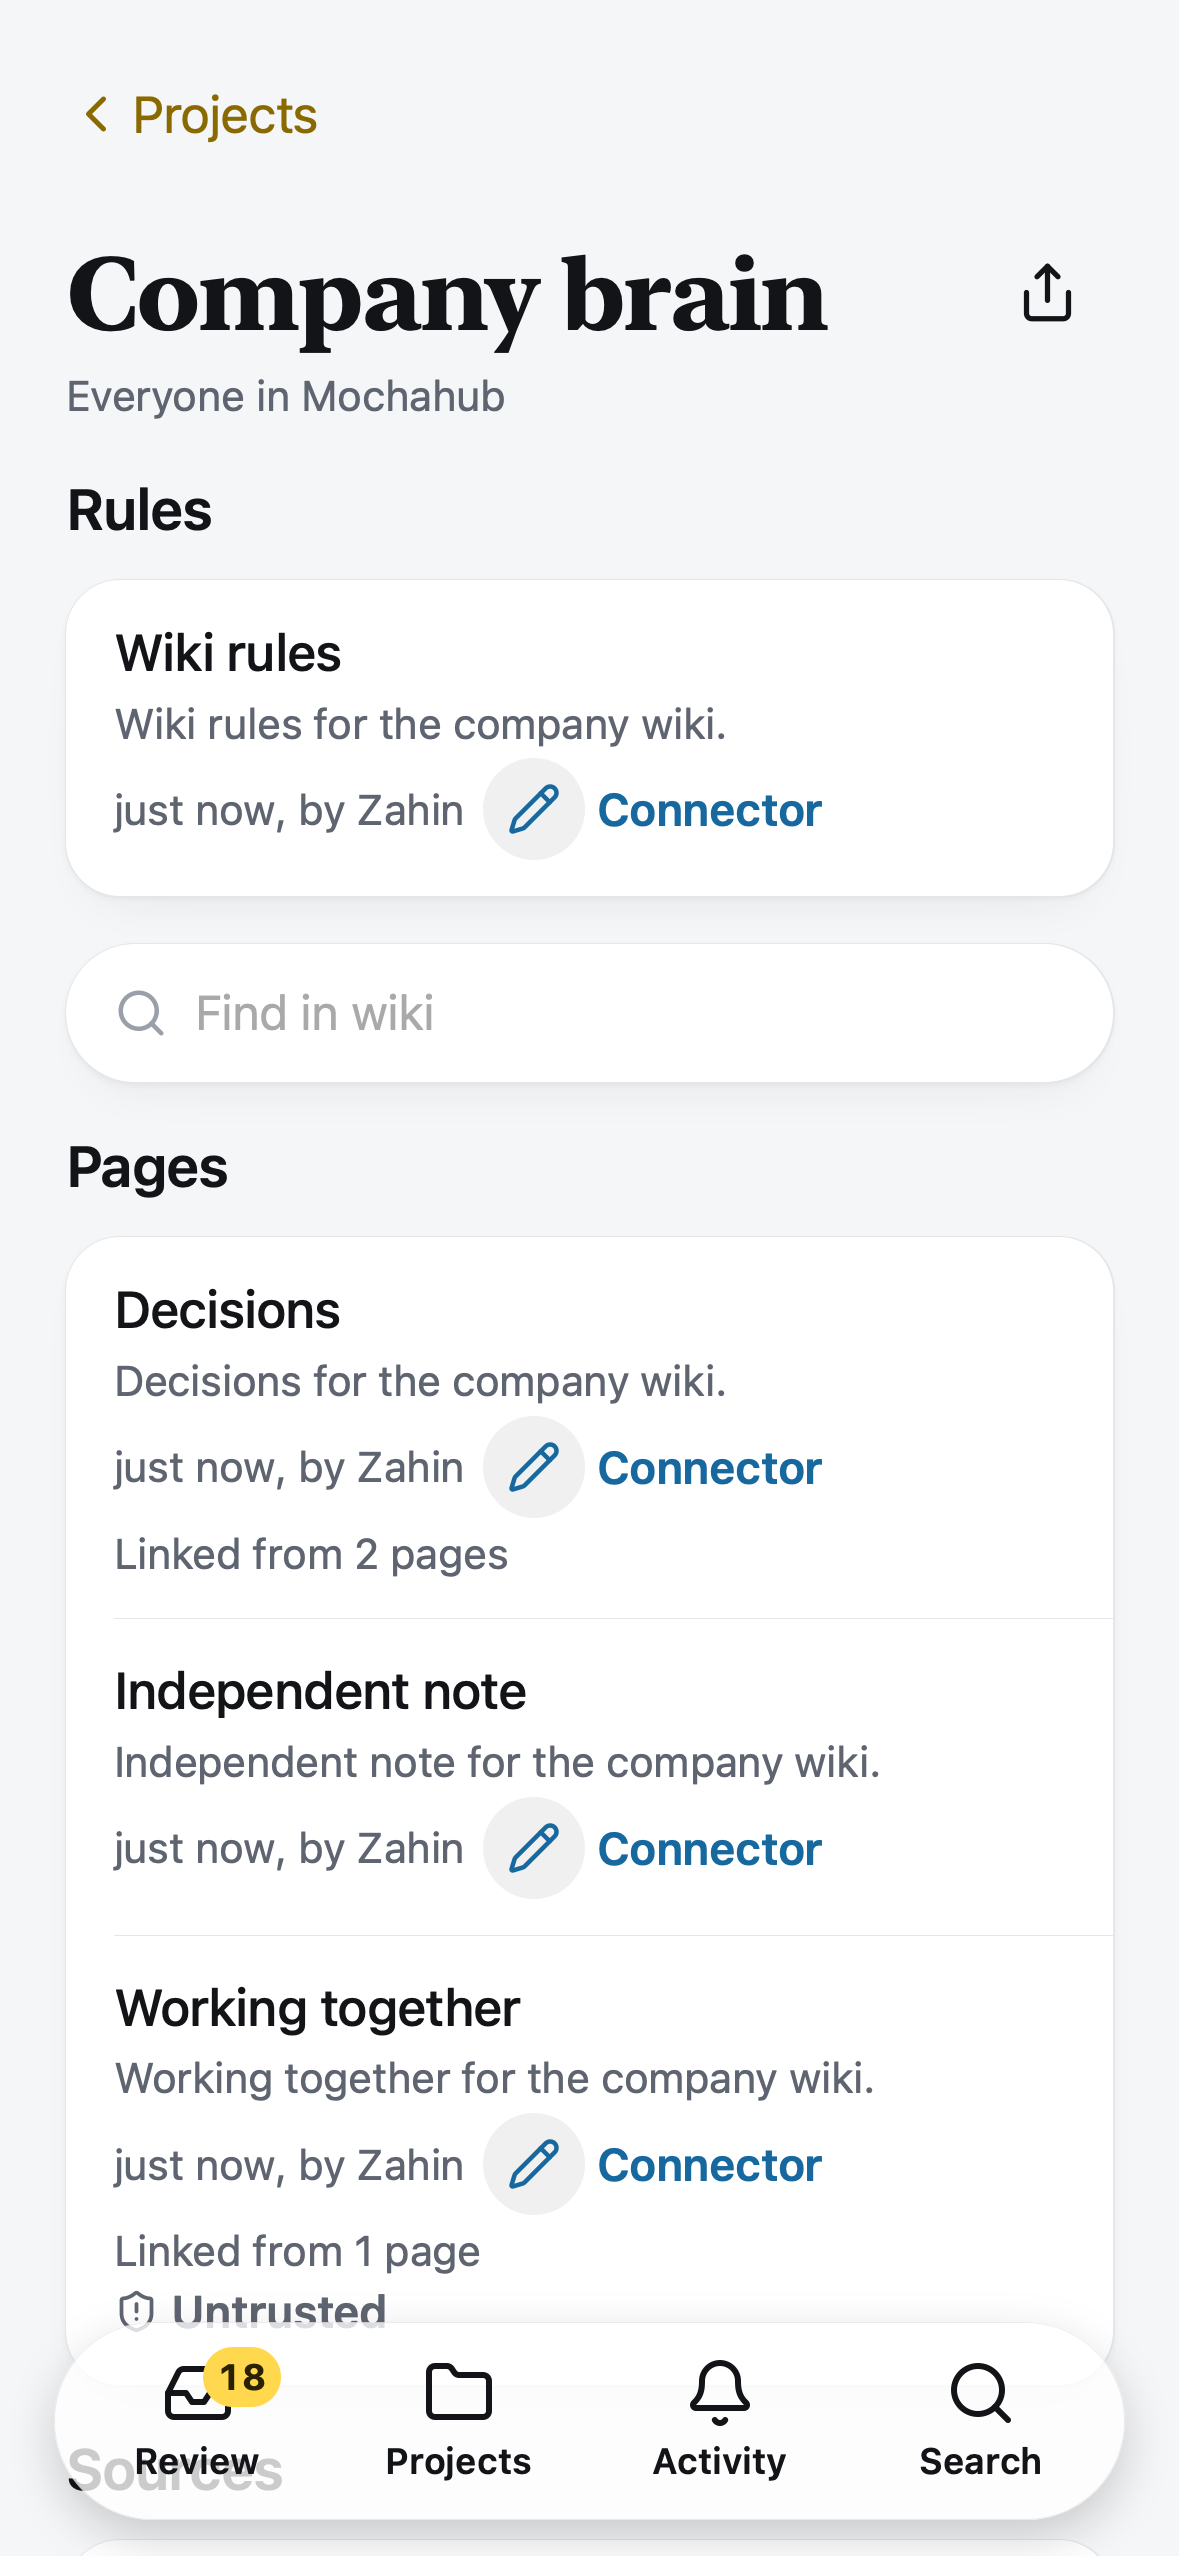
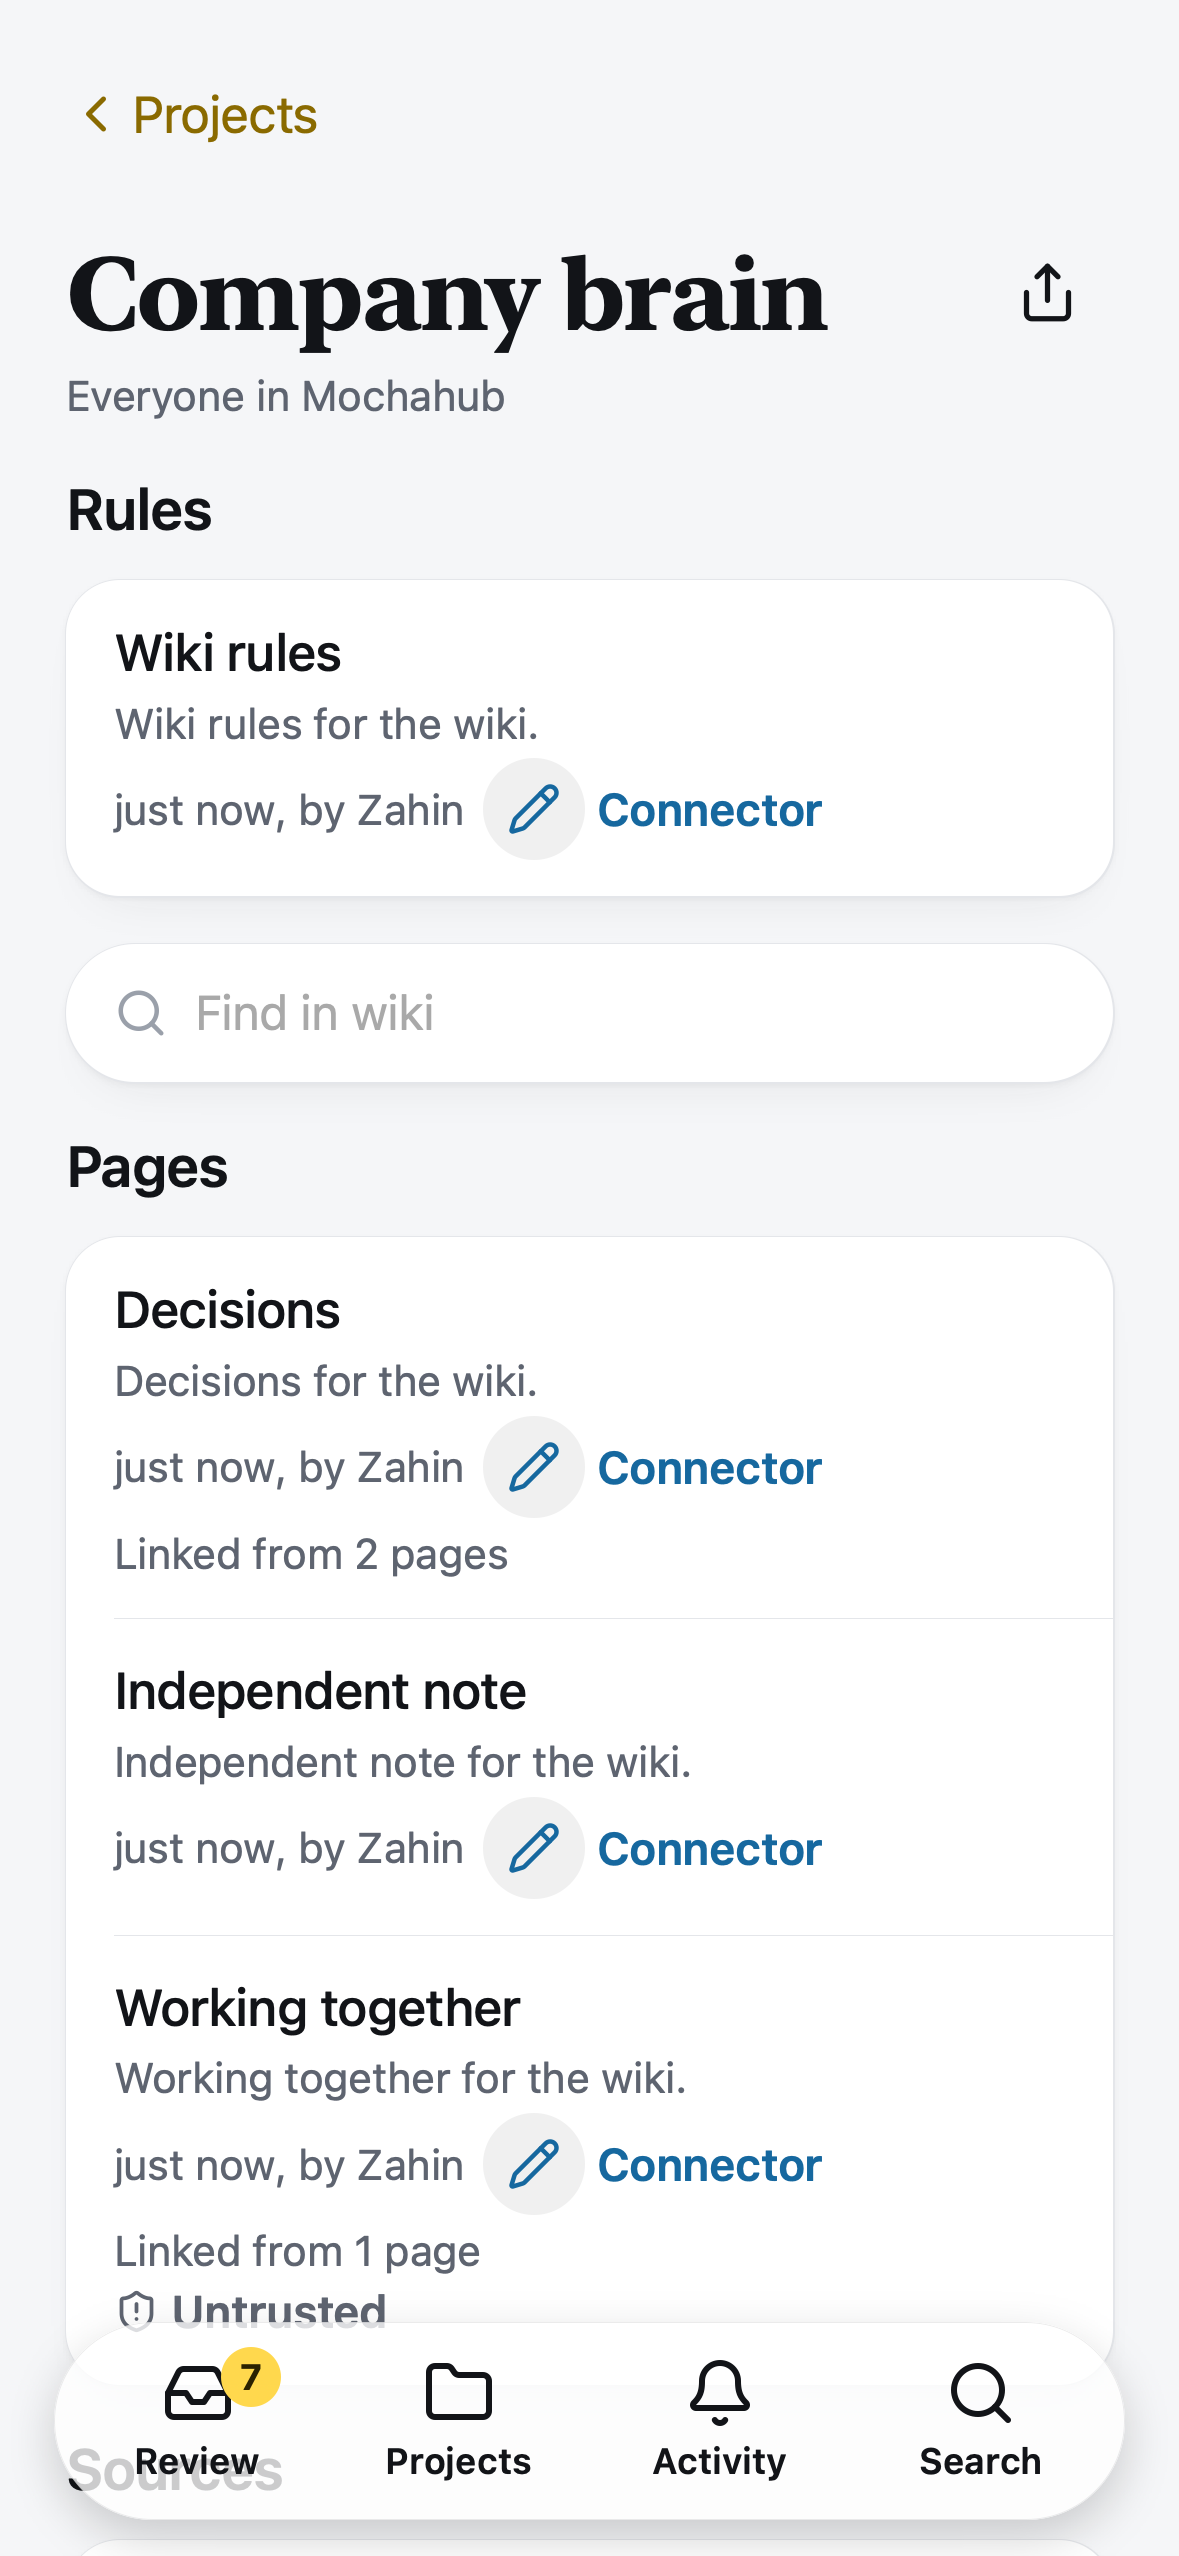
feat(cli,viewer): show wiki audience; create with --only-me or --team

diff --git a/apps/viewer/e2e/wiki.e2e.ts b/apps/viewer/e2e/wiki.e2e.ts
@@ -1,18 +1,18 @@
 import { expect, test } from "@playwright/test";
 import { auth, overflowsSideways, shot, watchErrors } from "./helpers.ts";
 
-test("wiki home, direct reading, sources, backlinks and personal labels", async ({ page, request }, info) => {
+test("wiki home, direct reading, sources, backlinks and audience labels", async ({ page, request }, info) => {
   const wiki = `brain-${info.project.name}-${info.repeatEachIndex}`;
-  const personal = `personal-${info.project.name}-${info.repeatEachIndex}`;
+  const onlyMe = `only-me-${info.project.name}-${info.repeatEachIndex}`;
   const errors = watchErrors(page);
   await page.emulateMedia({ colorScheme: "light" });
   for (const [slug, name, privateWiki] of [
     [wiki, "Company brain", false],
-    [personal, "My notebook", true],
+    [onlyMe, "My notebook", true],
   ] as const) {
     const response = await request.post("/api/wikis", {
       headers: auth(),
-      data: { slug, name, personal: privateWiki },
+      data: { slug, name, onlyMe: privateWiki },
     });
     expect(response.ok()).toBe(true);
   }
@@ -29,7 +29,7 @@ test("wiki home, direct reading, sources, backlinks and personal labels", async 
             project: wiki,
             slug,
             title,
-            summary: `${title} for the company wiki.`,
+            summary: `${title} for the wiki.`,
             markdown,
             ...meta,
           },
@@ -108,6 +108,33 @@ test("wiki home, direct reading, sources, backlinks and personal labels", async 
   expect(await overflowsSideways(page)).toBe(false);
   await shot(page, "16-3-wiki-footer");
   await page.goto("/projects");
-  await expect(page.locator(`a.li[href="/${personal}"]`)).toContainText("Personal wiki");
+  await expect(page.locator(`a.li[href="/${onlyMe}"]`)).toContainText("Only you");
   expect(errors).toEqual([]);
+});
+
+test("long unbroken audience labels wrap on wiki home and project rows at 375px", async ({
+  page,
+  request,
+}, info) => {
+  const slug = `wrap-${info.project.name}`;
+  await request.post("/api/wikis", { headers: auth(), data: { slug, name: "Wrapping" } });
+  const label = "Audience".repeat(50);
+  await page.route("**/api/wikis/*", async (route) => {
+    const response = await route.fetch();
+    const body = await response.json();
+    body.project.audience.label = label;
+    await route.fulfill({ response, json: body });
+  });
+  await page.route("**/api/projects*", async (route) => {
+    const response = await route.fetch();
+    const body = await response.json();
+    for (const project of body) if (project.slug === slug) project.audience.label = label;
+    await route.fulfill({ response, json: body });
+  });
+  await page.setViewportSize({ width: 375, height: 812 });
+  for (const path of [`/${slug}`, "/projects"]) {
+    await page.goto(path);
+    await expect(page.getByText(label, { exact: path !== "/projects" })).toBeVisible();
+    expect(await overflowsSideways(page)).toBe(false);
+  }
 });

diff --git a/packages/cli/src/commands/wiki.ts b/packages/cli/src/commands/wiki.ts
@@ -6,9 +6,9 @@ import { namedArtifact, resolveArtifact } from "../target.ts";
 
 export function wikiSummary(space: WikiSpace): string[] {
   const page = (p: WikiSpace["pages"][number]) =>
-    `  ${p.slug}  ${p.title}${p.untrusted ? " [untrusted]" : ""}${p.summary ? `: ${p.summary}` : ""}`;
+    `  ${p.slug}  ${p.title}${p.untrusted ? " [untrusted]" : ""}${p.summary ? `: ${p.summary}` : ""}${p.origin ? ` (${p.origin})` : ""}`;
   return [
-    `${space.project.name}${space.project.personal ? " (personal)" : ""}`,
+    `${space.project.name} (${space.project.audience.label})`,
     "Rules",
     ...(space.rules ? [page(space.rules)] : ["  No rules page yet."]),
     "Pages",
@@ -42,16 +42,32 @@ export async function wikiCommand(
     rest,
     flags,
     usage,
-  }: Input<"sub" | "target", { name?: string; personal?: boolean; server?: string }>,
+  }: Input<
+    "sub" | "target",
+    { name?: string; personal?: boolean; "only-me"?: boolean; team?: string; server?: string }
+  >,
   out: Output,
 ) {
   if (!target || rest.length !== 2 || !["create", "show", "links"].includes(sub ?? "")) throw usage();
-  if (sub !== "create" && (flags.name !== undefined || flags.personal !== undefined)) throw usage();
+  if (
+    sub !== "create" &&
+    (flags.name !== undefined ||
+      flags.personal !== undefined ||
+      flags["only-me"] !== undefined ||
+      flags.team !== undefined)
+  )
+    throw usage();
   if (sub === "links") namedArtifact(target);
   else if (!Slug.safeParse(target).success) throw usage();
   if (
     sub === "create" &&
-    !CreateWiki.safeParse({ slug: target, name: flags.name ?? target, personal: flags.personal }).success
+    !CreateWiki.safeParse({
+      slug: target,
+      name: flags.name ?? target,
+      onlyMe: flags["only-me"],
+      team: flags.team,
+      personal: flags.personal,
+    }).success
   )
     throw usage();
   const client = await signedIn(flags.server);
@@ -60,12 +76,12 @@ export async function wikiCommand(
       await client.post("/api/wikis", {
         slug: target,
         name: flags.name ?? target,
+        onlyMe: flags["only-me"],
+        team: flags.team,
         personal: flags.personal ?? false,
       }),
     );
-    return out.result(result, () =>
-      out.say(`${result.name}${result.personal ? " (personal)" : ""}\n${result.url}`),
-    );
+    return out.result(result, () => out.say(`${result.name} (${result.audience.label})\n${result.url}`));
   }
   if (sub === "show") {
     const result = WikiSpace.parse(await client.get(`/api/wikis/${target}`));

diff --git a/packages/cli/test/wiki.test.ts b/packages/cli/test/wiki.test.ts
@@ -27,7 +27,14 @@ test("wiki help lists each operation and bad arguments stop before sign-in", asy
 
 test("wiki output shows summaries, trust and actionable findings", () => {
   const space = WikiSpace.parse({
-    project: { slug: "brain", name: "Brain", personal: true, canPublish: true, canShare: true },
+    project: {
+      slug: "brain",
+      name: "Brain",
+      audience: { kind: "me", label: "Only you" },
+      guidance: { edits: "direct", text: "" },
+      canPublish: true,
+      canShare: true,
+    },
     rules: null,
     pages: [],
     sources: [
@@ -39,7 +46,7 @@ test("wiki output shows summaries, trust and actionable findings", () => {
         role: "source",
         untrusted: true,
         sources: [],
-        origin: null,
+        origin: "https://example.com/clip",
         version: 1,
         updatedAt: new Date().toISOString(),
         publishedBy: "Person",
@@ -52,9 +59,9 @@ test("wiki output shows summaries, trust and actionable findings", () => {
     garden: [{ kind: "wanted", slug: "topic", message: "Write this page.", refs: [] }],
   });
   const output = wikiSummary(space).join("\n");
-  expect(output).toContain("Brain (personal)");
+  expect(output).toContain("Brain (Only you)");
   expect(output).toContain("No rules page yet.");
-  expect(output).toContain("clip  Clip [untrusted]: A web source");
+  expect(output).toContain("clip  Clip [untrusted]: A web source (https://example.com/clip)");
   expect(output).toContain("wanted topic: Write this page.");
   expect(
     linksSummary({
@@ -79,7 +86,14 @@ test("wiki guide ships in the skill and hosted guide registry", () => {
 test("empty wiki sections say none", () => {
   expect(
     wikiSummary({
-      project: { slug: "brain", name: "Brain", personal: false, canPublish: true, canShare: true },
+      project: {
+        slug: "brain",
+        name: "Brain",
+        audience: { kind: "org", label: "Everyone in Mochahub" },
+        guidance: { edits: "suggestion", text: "" },
+        canPublish: true,
+        canShare: true,
+      },
       rules: null,
       pages: [],
       sources: [],
@@ -87,7 +101,7 @@ test("empty wiki sections say none", () => {
       log: [],
     }),
   ).toEqual([
-    "Brain",
+    "Brain (Everyone in Mochahub)",
     "Rules",
     "  No rules page yet.",
     "Pages",

diff --git a/packages/cli/test/wiki-search.e2e.test.ts b/packages/cli/test/wiki-search.e2e.test.ts
@@ -1,7 +1,7 @@
 import { afterAll, beforeAll, describe, expect, test } from "bun:test";
 import { LibraryPage, WikiSpace } from "@artifacts/schema";
 import { and, eq } from "drizzle-orm";
-import { artifacts } from "../../../apps/server/src/db/schema.ts";
+import { artifacts, teams } from "../../../apps/server/src/db/schema.ts";
 import { mcp, type TestServer } from "../../../apps/server/test/helpers.ts";
 import { makePerson } from "../../../apps/server/test/publish-helper.ts";
 import { cliJson, hostedServer, sandbox } from "./sandbox.ts";
@@ -73,6 +73,31 @@ describe("wiki search", () => {
   }, 30_000);
   afterAll(() => t.stop());
 
+  test("CLI creates each starting audience and accepts the legacy flag", async () => {
+    const env = { ...box.env, ARTIFACTS_TOKEN: token };
+    const mine = await cliJson(["wiki", "create", "cli-mine", "--only-me", "--server", url], env);
+    expect(mine.audience).toEqual({ kind: "me", label: "Only you" });
+    const legacy = await cliJson(["wiki", "create", "cli-legacy", "--personal", "--server", url], env);
+    expect(legacy.audience).toEqual(mine.audience);
+    const [org] = await t.server.db
+      .select({ orgId: artifacts.orgId, publisherId: artifacts.publisherId })
+      .from(artifacts)
+      .limit(1);
+    if (!org) throw new Error("Missing artifact");
+    await t.server.db.insert(teams).values({
+      id: Bun.randomUUIDv7(),
+      orgId: org.orgId,
+      slug: "settings",
+      name: "CLI team",
+      createdBy: org.publisherId,
+    });
+    const shared = await cliJson(
+      ["wiki", "create", "cli-shared", "--team", "settings", "--server", url],
+      env,
+    );
+    expect(shared.audience.kind).toBe("team");
+    expect(shared.audience.teams).toEqual([{ slug: "settings", name: "CLI team" }]);
+  });
   test("natural-language queries rank distinct matching terms across fields before source weights", async () => {
     const expected = ["split", "all", "three", "two", "one"];
     expect((await search("Q3 goals pricing risks")).cards.map((c) => c.slug)).toEqual(expected);

diff --git a/packages/cli/src/commands/table.ts b/packages/cli/src/commands/table.ts
@@ -17,17 +17,23 @@ const COMMANDS: Command[] = [
   command({
     name: "wiki",
     usage: [
-      "wiki create <slug> [--name <name>] [--personal]",
+      "wiki create <slug> [--name <name>] [--only-me | --team <slug>]",
       "wiki show <slug> [--json]",
       "wiki links <project/slug> [--json]",
     ],
     help: [
-      "artifacts wiki create <slug> [--name <name>] [--personal]",
+      "artifacts wiki create <slug> [--name <name>] [--only-me | --team <slug>]",
       "artifacts wiki show <slug> [--json]",
       "artifacts wiki links <project/slug> [--json]",
     ],
     args: ["sub", "target"],
-    options: { name: { type: "string" }, personal: { type: "boolean" }, ...server },
+    options: {
+      name: { type: "string" },
+      personal: { type: "boolean" },
+      "only-me": { type: "boolean" },
+      team: { type: "string" },
+      ...server,
+    },
     run: async (input, out) => (await import("./wiki.ts")).wikiCommand(input, out),
   }),
   command({

diff --git a/apps/viewer/src/routes/projects.tsx b/apps/viewer/src/routes/projects.tsx
@@ -62,14 +62,12 @@ function List() {
               {projects.map((project) => (
                 <a class="li" href={projectHref(project.slug)} key={project.id}>
                   <ProjectTile name={project.name} />
-                  <div class="grow">
+                  <div class="grow" style={{ minWidth: 0, overflowWrap: "anywhere" }}>
                     <div class="tt">{project.name}</div>
                     <div class="ss">
                       {plural(project.artifactCount, "artifact")}, {ago(project.updatedAt)}
                       {project.kind === "wiki"
-                        ? project.restricted
-                          ? ", Personal wiki"
-                          : ", Wiki"
+                        ? `, Wiki, ${project.audience?.label ?? ""}`
                         : project.restricted && ", restricted"}
                     </div>
                   </div>

diff --git a/apps/viewer/src/wiki/home.tsx b/apps/viewer/src/wiki/home.tsx
@@ -9,7 +9,6 @@ import { Shell } from "../components/shell.tsx";
 import { agentShort, ago, plural } from "../format.ts";
 import { artifactHref } from "../paths.ts";
 import { usePoll } from "../poll.ts";
-import { meta } from "../session.ts";
 import { useTitle } from "../title.ts";
 import "./wiki.css";
 
@@ -98,8 +97,8 @@ export function WikiHome({ slug }: { slug: string }) {
                     </button>
                   )}
                 </div>
-                <div class="ss">
-                  {wiki.project.personal ? "Only you" : `Everyone in ${meta.value?.orgName}`}
+                <div class="ss" style={{ minWidth: 0, overflowWrap: "anywhere" }}>
+                  {wiki.project.audience.label}
                 </div>
               </div>
               <section class="wiki-section">
